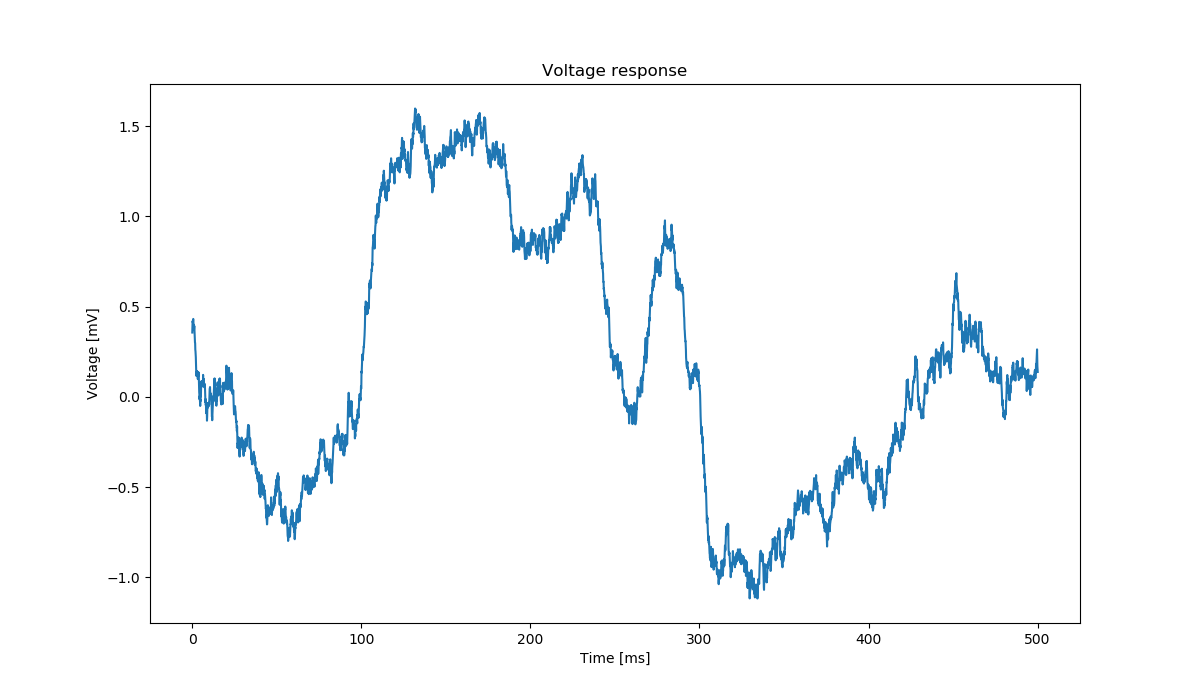
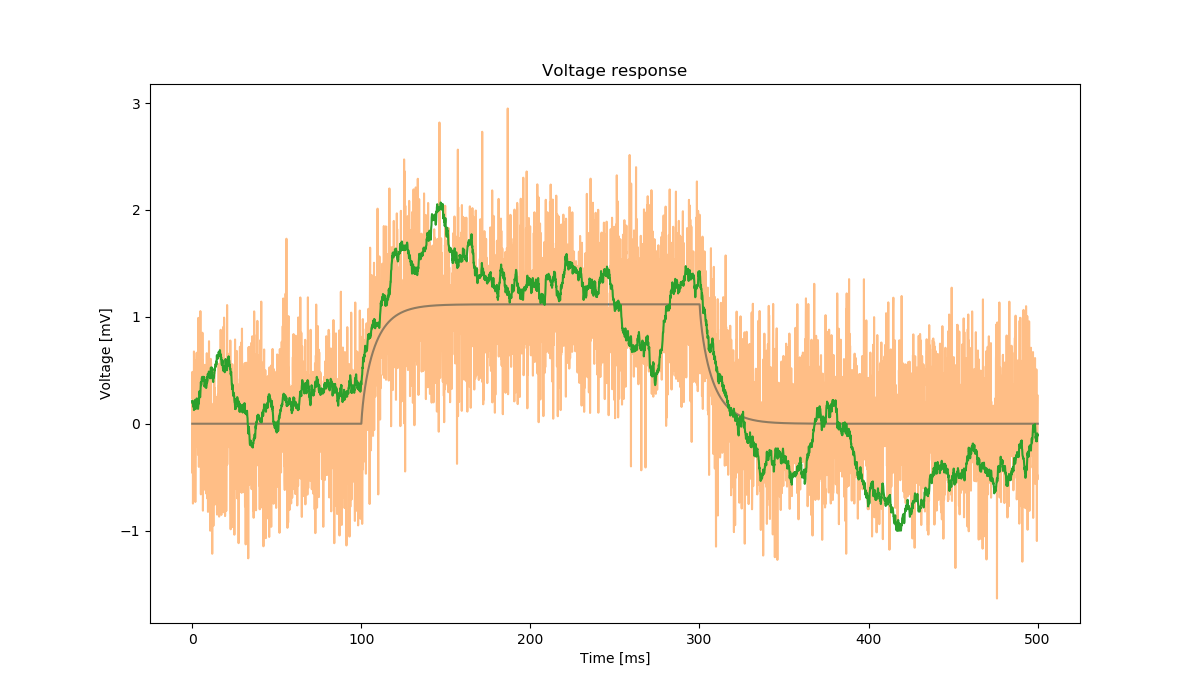
Debug colored pilot test

diff --git a/stim_protocol2/combining_colored/debug/run_simulations_deb.py b/stim_protocol2/combining_colored/debug/run_simulations_deb.py
@@ -1,0 +1,142 @@
+# I this we will test what will happen if we assume there is white noise
+# This way we can check, whether the problem can be located in the colored simulations
+
+import numpy as np
+from neuron import h, gui
+from module.simulation import real_morphology_model
+from module.probability import ParameterSet, RandomVariable
+from module.noise import more_c_trace, sampling_from_prior
+from functools import partial
+from module.protocol_test import run_protocol_simulations
+import tables as tb
+import time
+
+startTime = time.time()
+
+# SET UP SIMULATION PARAMETERS -------------------------------------------------------------------------------------
+
+hz = [1, 10, 100]
+duration = [3, 20, 200]
+
+p_names = ['Ra', 'gpas']
+p_res = [61, 61]  # Parameters resolution
+p_range = [[40, 160], [0.00004, 0.00016]]  # Fixed range, but "true value" may change!
+p_mean = [100., 0.0001]  # Fixed prior mean
+p_std = [20., 0.00002]  # Fixed prior std
+
+noise_D = 21.6767
+noise_lamb = 0.011289
+
+noise = 0.48
+noise_rep = 30  # How many repetition while params are fixed
+fixed_param_num = 10  # The number of fixed parameters sampled from prior
+model = real_morphology_model
+
+# --- Load NEURON morphology
+h('load_file("/Users/Dani/TDK/parameter_estim/exp/morphology_131117-C2.hoc")')
+# Set the appropriate "nseg"
+for sec in h.allsec():
+    sec.Ra = p_range[0][1]
+h('forall {nseg = int((L/(0.1*lambda_f(100))+.9)/2)*2 + 1}')  # If Ra_max = 105 dend.nseg = 21 and soma.nseg = 1
+
+batch_size = 30000                 # Set it to "None" to compute the whole parameter space in one stock
+
+# Set up random seed
+np.random.seed(42)
+
+# invcovmat = np.genfromtxt("/Users/Dani/TDK/parameter_estim/stim_protocol2/combining_colored/inv_covmat.csv", delimiter=',')
+# print "Inverse covariance matrix is loaded to memory!"
+# print invcovmat.shape
+
+
+# END OF SETTING UP SIMULATION PARAMETERS -----------------------------------------------------------------------------
+
+
+
+
+
+
+# Set up parameters using prior information about them (fix the range we are assuming the true parameter)
+prior_params = []
+for idx, item in enumerate(p_names):
+    prior_params.append(RandomVariable(name=item, range_min=p_range[idx][0], range_max=p_range[idx][1],
+                                       resolution=p_res[idx], sigma=p_std[idx], mean=p_mean[idx]))
+
+prior_set = ParameterSet(*prior_params)
+prior_set.batch_len = batch_size
+if batch_size != None:
+    prior_set.isBatch = True
+else:
+    prior_set.isBatch = False
+prior_set.create_batch()
+
+# Create fixed params sampled from prior
+fixed_params = sampling_from_prior(prior_set, fixed_param_num)
+
+# Save parameter informations
+# Create database for data
+database = tb.open_file("/Users/Dani/TDK/parameter_estim/stim_protocol2/combining_colored/debug/paramsetup.hdf5", mode="w")
+
+# Save param initialization
+param_init = []
+for param in prior_set.params:
+    param_init.append(param.get_init())
+param_init = np.array(param_init, dtype=str)
+
+database.create_array(database.root, "params_init",
+                      title="Parameter space initializer. True value is about to set up!",
+                      atom=tb.Atom.from_dtype(param_init.dtype),
+                      shape=param_init.shape, obj=param_init)
+
+# Save fixed params and target_traces
+fixed_p = np.ndarray(shape=(len(fixed_params), len(prior_set.params)))
+for idx, item in enumerate(fixed_params):
+    for i, param in enumerate(prior_set.params):
+        fixed_p[idx, i] = item[param.name]
+
+database.create_array(database.root, "fixed_params",
+                      title="True value for each parameter in given simulation",
+                      atom=tb.Atom.from_dtype(fixed_p.dtype),
+                      shape=fixed_p.shape, obj=fixed_p)
+
+database.flush()
+print "Parameter space initialization data saved to disk"
+print database
+database.close()
+
+
+for item in hz:
+    print "\n\n---------------------------------------- Running %i Hz zap protocol" % item
+
+    # Stimulus path
+    stim = np.loadtxt("/Users/Dani/TDK/parameter_estim/stim_protocol2/stimulus/sin/%i/stim.txt" % item)
+    working_path = "/Users/Dani/TDK/parameter_estim/stim_protocol2/combining_colored/debug/sins/%i" % item
+
+    modell = partial(model, stim=stim)
+
+    # Generate synthetic data for each fixed params and given repetition
+    target_traces = more_c_trace(D=noise_D, lamb=noise_lamb, dt=0.1, model=modell, params=fixed_params, rep=noise_rep)
+    print "The shape of target traces: " + str(target_traces.shape)
+
+    if __name__ == '__main__':
+        run_protocol_simulations(model=modell, target_traces=target_traces, noise_std=noise, param_set=prior_set,
+                                 working_path=working_path)
+
+for item in duration:
+    print "\n\n---------------------------------------- Running %i ms impulse protocol" % item
+
+    # Stimulus path
+    stim = np.loadtxt("/Users/Dani/TDK/parameter_estim/stim_protocol2/stimulus/step/%i/stim.txt" % item)
+    working_path = "/Users/Dani/TDK/parameter_estim/stim_protocol2/combining_colored/debug/steps/%i" % item
+
+    modell = partial(model, stim=stim)
+
+    # Generate synthetic data for each fixed params and given repetition
+    target_traces = more_c_trace(D=noise_D, lamb=noise_lamb, dt=0.1, model=modell, params=fixed_params, rep=noise_rep)
+
+    if __name__ == '__main__':
+        run_protocol_simulations(model=modell, target_traces=target_traces, noise_std=noise, param_set=prior_set,
+                                 working_path=working_path)
+
+runningTime = (time.time()-startTime)/60
+print "\n\nThe script was running for %f minutes" % runningTime

diff --git a/stim_protocol2/combining_colored/debug/evaluate_deb.py b/stim_protocol2/combining_colored/debug/evaluate_deb.py
@@ -1,0 +1,69 @@
+from module.protocol_test import plot_single_results, plot_combined_results, mult_likelihood,\
+    combine_likelihood, protocol_comparison
+import time
+import tables as tb
+
+startTime = time.time()
+nfp = 10  # Number of fixed parameters
+p_names = ['Ra', 'gpas']
+
+# Load parameter space initializator
+pinit = tb.open_file("/Users/Dani/TDK/parameter_estim/stim_protocol2/combining_colored/debug/paramsetup.hdf5", mode="r")
+
+# Plot some single results
+plot_single_results(path="/Users/Dani/TDK/parameter_estim/stim_protocol2/combining_colored/debug/steps/3", numfp=nfp, which=0, dbs=pinit)
+plot_single_results(path="/Users/Dani/TDK/parameter_estim/stim_protocol2/combining_colored/debug/steps/20", numfp=nfp, which=0, dbs=pinit)
+plot_single_results(path="/Users/Dani/TDK/parameter_estim/stim_protocol2/combining_colored/debug/steps/200", numfp=nfp, which=0, dbs=pinit)
+plot_single_results(path="/Users/Dani/TDK/parameter_estim/stim_protocol2/combining_colored/debug/sins/1", numfp=nfp, which=0, dbs=pinit)
+plot_single_results(path="/Users/Dani/TDK/parameter_estim/stim_protocol2/combining_colored/debug/sins/10", numfp=nfp, which=0, dbs=pinit)
+plot_single_results(path="/Users/Dani/TDK/parameter_estim/stim_protocol2/combining_colored/debug/sins/100", numfp=nfp, which=0, dbs=pinit)
+
+
+# Multiply likelihoods for each fixed parameter
+mult_likelihood(path="/Users/Dani/TDK/parameter_estim/stim_protocol2/combining_colored/debug/sins/100", numfp=10, num_mult=30)
+mult_likelihood(path="/Users/Dani/TDK/parameter_estim/stim_protocol2/combining_colored/debug/sins/10", numfp=10, num_mult=30)
+mult_likelihood(path="/Users/Dani/TDK/parameter_estim/stim_protocol2/combining_colored/debug/sins/1", numfp=10, num_mult=30)
+mult_likelihood(path="/Users/Dani/TDK/parameter_estim/stim_protocol2/combining_colored/debug/steps/3", numfp=10, num_mult=30)
+mult_likelihood(path="/Users/Dani/TDK/parameter_estim/stim_protocol2/combining_colored/debug/steps/20", numfp=10, num_mult=30)
+mult_likelihood(path="/Users/Dani/TDK/parameter_estim/stim_protocol2/combining_colored/debug/steps/200", numfp=10, num_mult=30)
+
+# Create combine path_lists:
+steps_list = ["/Users/Dani/TDK/parameter_estim/stim_protocol2/combining_colored/debug/steps/3",
+             "/Users/Dani/TDK/parameter_estim/stim_protocol2/combining_colored/debug/steps/20",
+             "/Users/Dani/TDK/parameter_estim/stim_protocol2/combining_colored/debug/steps/200"]
+
+sins_list = ["/Users/Dani/TDK/parameter_estim/stim_protocol2/combining_colored/debug/sins/1",
+             "/Users/Dani/TDK/parameter_estim/stim_protocol2/combining_colored/debug/sins/10",
+             "/Users/Dani/TDK/parameter_estim/stim_protocol2/combining_colored/debug/sins/100"]
+
+# Create combinations
+combine_likelihood(sins_list, numfp=10, num_mult_single=10,
+                   out_path="/Users/Dani/TDK/parameter_estim/stim_protocol2/combining_colored/debug/sins/comb")
+combine_likelihood(steps_list, numfp=10, num_mult_single=10,
+                   out_path="/Users/Dani/TDK/parameter_estim/stim_protocol2/combining_colored/debug/steps/comb")
+
+plot_combined_results("/Users/Dani/TDK/parameter_estim/stim_protocol2/combining_colored/debug/sins/100", 10, dbs=pinit)
+plot_combined_results("/Users/Dani/TDK/parameter_estim/stim_protocol2/combining_colored/debug/sins/10", 10, dbs=pinit)
+plot_combined_results("/Users/Dani/TDK/parameter_estim/stim_protocol2/combining_colored/debug/sins/1", 10, dbs=pinit)
+plot_combined_results("/Users/Dani/TDK/parameter_estim/stim_protocol2/combining_colored/debug/sins/comb", 10, dbs=pinit)
+plot_combined_results("/Users/Dani/TDK/parameter_estim/stim_protocol2/combining_colored/debug/steps/3", 10, dbs=pinit)
+plot_combined_results("/Users/Dani/TDK/parameter_estim/stim_protocol2/combining_colored/debug/steps/20", 10, dbs=pinit)
+plot_combined_results("/Users/Dani/TDK/parameter_estim/stim_protocol2/combining_colored/debug/steps/200", 10, dbs=pinit)
+plot_combined_results("/Users/Dani/TDK/parameter_estim/stim_protocol2/combining_colored/debug/steps/comb", 10, dbs=pinit)
+
+path_list = ["/Users/Dani/TDK/parameter_estim/stim_protocol2/combining_colored/debug/steps/3",
+             "/Users/Dani/TDK/parameter_estim/stim_protocol2/combining_colored/debug/steps/20",
+             "/Users/Dani/TDK/parameter_estim/stim_protocol2/combining_colored/debug/steps/200",
+             "/Users/Dani/TDK/parameter_estim/stim_protocol2/combining_colored/debug/sins/1",
+             "/Users/Dani/TDK/parameter_estim/stim_protocol2/combining_colored/debug/sins/10",
+             "/Users/Dani/TDK/parameter_estim/stim_protocol2/combining_colored/debug/sins/100",
+             "/Users/Dani/TDK/parameter_estim/stim_protocol2/combining_colored/debug/steps/comb",
+             "/Users/Dani/TDK/parameter_estim/stim_protocol2/combining_colored/debug/sins/comb"]
+
+
+protocol_comparison(path_list, numfp=10, inferred_params=p_names,
+                    out_path="/Users/Dani/TDK/parameter_estim/stim_protocol2/combining_colored/debug", dbs=pinit)
+
+pinit.close()
+runningTime = (time.time()-startTime)/60
+print "\n\nThe script was running for %f minutes" % runningTime

diff --git a/stim_protocol2/stimulus/stim_generator.py b/stim_protocol2/stimulus/stim_generator.py
@@ -2,7 +2,7 @@ import numpy as np
 from matplotlib import pyplot
 from simulation import real_morphology_model
 from neuron import h
-from noise import colored
+from noise import colored, white
 from matplotlib import pyplot as plt
 
 
@@ -47,10 +47,11 @@ h('forall {nseg = int((L/(0.1*lambda_f(100))+.9)/2)*2 + 1}')  # If Ra_max = 105 
 
 for item in step:
     stim = get_step(tv, 100, item)
-    np.savetxt("/Users/Dani/TDK/parameter_estim/stim_protocol2/stimulus/step/%i/stim.txt" % item, stim)
+    # np.savetxt("/Users/Dani/TDK/parameter_estim/stim_protocol2/stimulus/step/%i/stim.txt" % item, stim)
 
     t, v = real_morphology_model(stim=stim)
-    v = colored(21.6767, 0.011289, 0.1, v)
+    vc = colored(21.6767, 0.011289, 0.1, v)
+    vw = white(0.48, v)
 
     plt.figure(figsize=(12,7))
     plt.title("Stimulus")
@@ -65,6 +66,8 @@ for item in step:
     plt.xlabel("Time [ms]")
     plt.ylabel("Voltage [mV]")
     plt.plot(t, v)
+    plt.plot(t, vw, alpha=0.5)
+    plt.plot(t, vc)
     plt.savefig("/Users/Dani/TDK/parameter_estim/stim_protocol2/stimulus/step/%i/resp.png" % item)
     plt.show()
 
@@ -73,7 +76,8 @@ for item in sin:
     np.savetxt("/Users/Dani/TDK/parameter_estim/stim_protocol2/stimulus/sin/%i/stim.txt" % item, stim)
 
     t, v = real_morphology_model(stim=stim)
-    v = colored(21.6767, 0.011289, 0.1, v)
+    vc = colored(21.6767, 0.011289, 0.1, v)
+    vw = white(0.5, v)
 
     plt.figure(figsize=(12, 7))
     plt.title("Stimulus")
@@ -88,6 +92,8 @@ for item in sin:
     plt.xlabel("Time [ms]")
     plt.ylabel("Voltage [mV]")
     plt.plot(t, v)
+    plt.plot(t, vw, alpha=0.5)
+    plt.plot(t, vc)
     plt.savefig("/Users/Dani/TDK/parameter_estim/stim_protocol2/stimulus/sin/%i/resp.png" % item)
     plt.show()
 

diff --git a/module/protocol_test.py b/module/protocol_test.py
@@ -245,7 +245,6 @@ def run_protocol_simulations_c(model, target_traces, inv_covmat, param_set, work
         print "log_likelihood: Done!"
 
 
-
 def plot_single_results(path, numfp, which, dbs):
     """
     :param path: Working directory where the .hdf5 result file can be found (for given protocol)
